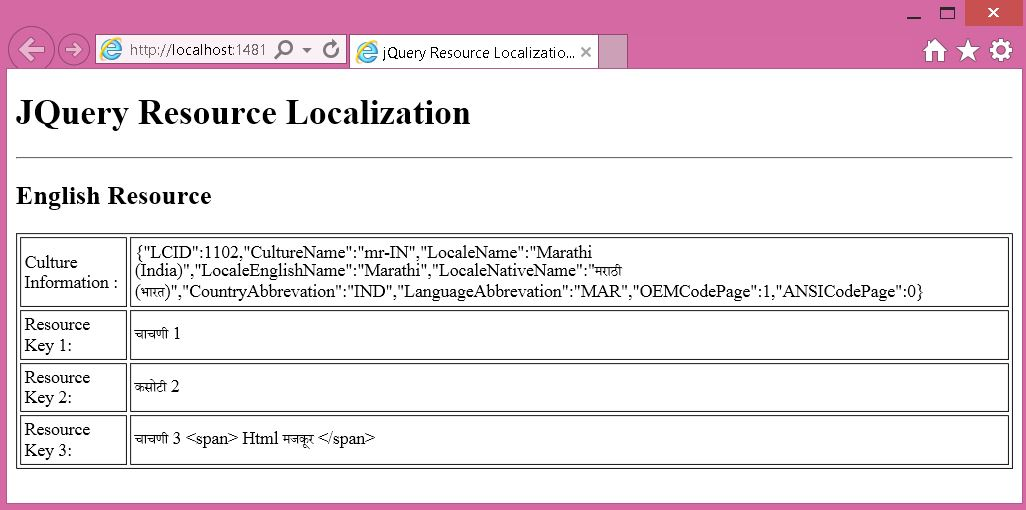
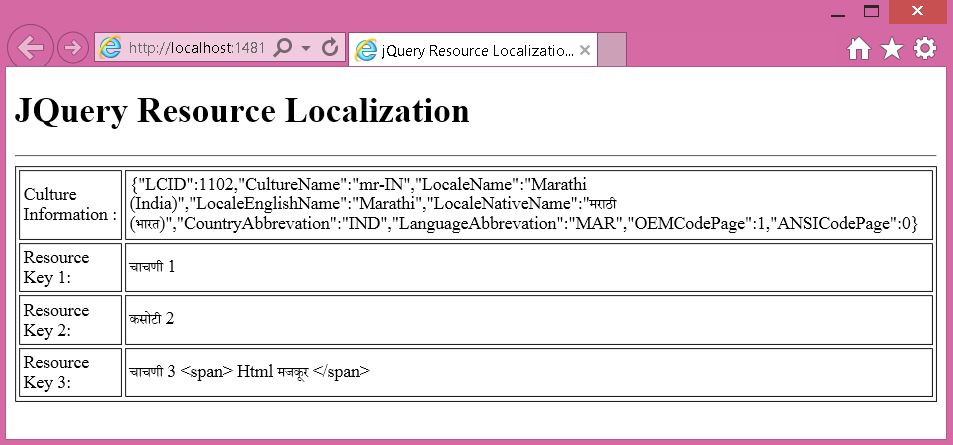
Added Nuget Package and documentation screens

Changed region(s): [[0.0, 0.0, 1.0, 0.9933]]

diff --git a/NuGet/scripts/jquery-resource-localization.1.0.0.0.js b/NuGet/scripts/jquery-resource-localization.1.0.0.0.js
@@ -1,0 +1,156 @@
+/***********************************************************************
+Author  :   Pritam Baldota
+Web Url :   http://www.pritambaldota.com
+
+The MIT License (MIT)
+
+Copyright (c) 2015 pritambaldota
+
+Permission is hereby granted, free of charge, to any person obtaining a copy
+of this software and associated documentation files (the "Software"), to deal
+in the Software without restriction, including without limitation the rights
+to use, copy, modify, merge, publish, distribute, sublicense, and/or sell
+copies of the Software, and to permit persons to whom the Software is
+furnished to do so, subject to the following conditions:
+
+The above copyright notice and this permission notice shall be included in all
+copies or substantial portions of the Software.
+
+THE SOFTWARE IS PROVIDED "AS IS", WITHOUT WARRANTY OF ANY KIND, EXPRESS OR
+IMPLIED, INCLUDING BUT NOT LIMITED TO THE WARRANTIES OF MERCHANTABILITY,
+FITNESS FOR A PARTICULAR PURPOSE AND NONINFRINGEMENT. IN NO EVENT SHALL THE
+AUTHORS OR COPYRIGHT HOLDERS BE LIABLE FOR ANY CLAIM, DAMAGES OR OTHER
+LIABILITY, WHETHER IN AN ACTION OF CONTRACT, TORT OR OTHERWISE, ARISING FROM,
+OUT OF OR IN CONNECTION WITH THE SOFTWARE OR THE USE OR OTHER DEALINGS IN THE
+SOFTWARE.
+
+***********************************************************************/
+
+(function ($) {
+    //var resxExtension = "txt";
+    window.jqueryLocalization = {
+        Author: "Pritam Baldota",
+        Version: "1.0.0.0",
+        Resources: {},
+        CurrentCulture: {}, // Fill the Culture Information. It depends upon another plugin https://github.com/pritambaldota/Jquery-Culture-Info 
+        Initialize: function (options) {
+            // A comma separates the different values
+            //var defaults = {};
+            // var options = $.extend(defaults, options);
+            var optionsinternal = {
+                resourceName: options.resourceName || "", // Name of Resource File without local and extension for e.g. myProjectresource.1033.txt is file so your app name will be myProjectresource
+                callback: options.callback, // Callback once all resource has been loaded, so user can use after this
+                errorCallback: options.errorCallback,
+                culture: options.culture, // language en-US to load resource for this culture. If this parameter is provided then lcid is ignored. Either of one will be accepted.
+                lcid: options.lcid, // lcid for e.g. 1033 to load resource for this locale.
+                scriptRoot: options.scriptRoot || "Scripts/Global_Resources", // Resoruce files relative folder location. If not provided default will be used
+                resxExtension: options.resxExtension || "txt", // Type of resources to create default is text file based, it can be either JS or TXT
+                cache: options.cache || true, // Default cache is true
+            };
+
+            var jqL = this;
+            //Cache Object if resources already loaded then cache is true then return the same result
+            if (optionsinternal.cache && this.Resources !== undefined && this.Resources.__Exists) {
+                // Do nothign as Resource is already having values
+                console.log("Resource availabe in Cache.");
+                return;
+            }
+
+            if (optionsinternal.resourceName === undefined) {
+                console.log("No Resource File Name provided.");
+                return;
+            }
+
+            if (typeof $.GetCultureInfoByCultureName === 'function' && typeof $.getCultureInfoByLCID === 'function') {
+                if (optionsinternal.culture !== undefined) {
+                    this.CurrentCulture = $.GetCultureInfoByCultureName(optionsinternal.culture);
+                }
+                else if (optionsinternal.lcid !== undefined) {
+                    this.CurrentCulture = $.getCultureInfoByLCID(optionsinternal.lcid);
+                }
+                else {
+                    // Throw exception
+                    options.errorCallback({ "message": "Please provide either culture or lcid" });
+                    return;
+                }
+
+                if (this.CurrentCulture == undefined) {
+                    console.log("No culture found for given input. Loading resources from default file");
+                    // Take Default fallback Resource file
+                    optionsinternal.resxExtension = "." + optionsinternal.resxExtension;
+                }
+                else {
+                    optionsinternal.resxExtension = "." + this.CurrentCulture.CultureName + "." + optionsinternal.resxExtension;
+                }
+            }
+            else {
+                // Take Default fallback Resource file
+                optionsinternal.resxExtension = "." + optionsinternal.resxExtension;
+            }
+
+            //Inject scripts
+            var filename = optionsinternal.scriptRoot + "/" + optionsinternal.resourceName + optionsinternal.resxExtension;
+            console.log("Resource identified - " + filename);
+            //Clear Resource before processing
+            jqL.Resources = {};
+
+            if (optionsinternal.resxExtension.toLowerCase() === "js") {
+                this.LoadDynamicJSCss(filename, "js", function () {
+                    //Set Resource Filled flag
+                    jqL.Resources["__Exists"] = "1";
+                    console.log("Resource ready for use.")
+                    optionsinternal.callback();
+                });
+            }
+            else {
+                // Load Non JS Resource file 
+                $.get(filename, function (data) {
+                    $.each(data.split("\r\n"), function (i, item) {
+                        item = $.trim(item);
+                        var pos = item.indexOf(":");
+                        if (pos !== -1 && item.length > pos) { // Valid resource item with  key value pair
+                            var itemRow = item.substring(0, pos);
+                            var itemCell = item.substring(pos + 1);
+                            jqL.Resources[$.trim(itemRow)] = $.trim(itemCell);
+                        }
+                    });
+
+                    //Set Resource Filled flag
+                    jqL.Resources["__Exists"] = "1";
+                    console.log("Resource ready for use.")
+                    optionsinternal.callback();
+                });
+            }
+        },
+        LoadDynamicJSCss: function (url, type, callback) {
+            var script = {};
+            if (type == "js") {
+                script = document.createElement("script");
+                script.type = "text/javascript";
+                script.src = url;
+            }
+            else if (type == "css") {
+                script = document.createElement("link");
+                script.type = "text/css";
+                script.rel = "stylesheet";
+                script.href = url;
+            }
+
+            if (script.readyState) {  //IE
+                script.onreadystatechange = function () {
+                    if (script.readyState == "loaded" ||
+                            script.readyState == "complete") {
+                        script.onreadystatechange = null;
+                        callback();
+                    }
+                };
+            } else {  //Others
+                script.onload = function () {
+                    callback();
+                };
+            }
+
+            document.body.appendChild(script);
+        }
+    };
+})(jQuery);

diff --git a/NuGet/demo-localization.html b/NuGet/demo-localization.html
@@ -1,0 +1,92 @@
+<!DOCTYPE html>
+<html xmlns="http://www.w3.org/1999/xhtml">
+<head>
+    <title>jQuery Resource Localization Plugin</title>
+    <!-- Dependent Libraries-->
+    <script src="Scripts/jquery-1.10.0.min.js"></script>
+    <script src="Scripts/jquery-cultureinfo-1.0.0.0.min.js"></script>
+
+    <!-- Plugin Reference-->
+    <script src="Scripts/jquery-resource-localization.1.0.0.0.min.js"></script>
+
+    <!-- Initialize Plugin -->
+    <script type="text/javascript">
+        $(document).ready(function () {
+            jqueryLocalization.Initialize({
+                resourceName: "myResourceFile", // Resource File name
+                callback: resourceLoaded, // Success call back handler. After this call back you can use resources.
+                errorCallback: errorOnResourceLoad, // Error call back handler
+                scriptRoot: "Scripts/Global_Resources", // Relative Location for Resource files
+                resxExtension: 'txt', // Default Resource file type will be txt if not provided. Valid types will either js or txt.
+                culture: "mr-IN", // Provide either culture or lcid. culture will have higher priority, if provided lcid will be ignored.
+                //lcid: 1033,
+                //cache: true,  // Default will be true if not provided. If Initialize called multiple times, it will return result from cache.
+            });
+        });
+
+        // Success handler
+        function resourceLoaded() {
+            // Start accessing resource
+            //Show all culture information. 
+            $("#cultureInfo").text(JSON.stringify(jqueryLocalization.CurrentCulture));
+
+            // Show Resource Values 
+            // Usage like Array : provide key name in brackets
+            $("#resValue1").text(jqueryLocalization.Resources["ResKey1"]);
+
+            // Usage like Object : provide key name as property
+            $("#resValue2").text(jqueryLocalization.Resources.ResKey2);
+
+            // Usage like Object : provide key name as property
+            $("#resValue3").text(jqueryLocalization.Resources.ResKey3);
+        }
+
+        //error callback
+        function errorOnResourceLoad(error) {
+            if (error !== undefined) {
+                console.log(error.message);
+            }
+        }
+    </script>
+
+</head>
+<body>
+    <h1>JQuery Resource Localization</h1>
+    <hr />
+
+    <table border="1" cellpadding="3" cellspacing="3">
+        <tr>
+            <td>
+                Culture Information :
+            </td>
+            <td>
+                <div id="cultureInfo"></div>
+            </td>
+        </tr>
+        <tr>
+            <td>
+                Resource Key 1:
+            </td>
+            <td>
+                <div id="resValue1"></div>
+            </td>
+        </tr>
+        <tr>
+            <td>
+                Resource Key 2:
+            </td>
+            <td>
+                <div id="resValue2"></div>
+            </td>
+        </tr>
+        <tr>
+            <td>
+                Resource Key 3:
+            </td>
+            <td>
+                <div id="resValue3"></div>
+            </td>
+        </tr>
+    </table>
+</body>
+</html>

diff --git a/NuGet/scripts/jquery-resource-localization.1.0.0.0.min.js b/NuGet/scripts/jquery-resource-localization.1.0.0.0.min.js
@@ -1,0 +1,2 @@
+// Author  :   Pritam Baldota , Web Url :   http://www.pritambaldota.com , The MIT License (MIT) , Copyright (c) 2015 pritambaldota
+!function (e) { window.jqueryLocalization = { Author: "Pritam Baldota", Version: "1.0.0.0", Resources: {}, CurrentCulture: {}, Initialize: function (r) { var t = { resourceName: r.resourceName || "", callback: r.callback, errorCallback: r.errorCallback, culture: r.culture, lcid: r.lcid, scriptRoot: r.scriptRoot || "Scripts/Global_Resources", resxExtension: r.resxExtension || "txt", cache: r.cache || !0 }, o = this; if (t.cache && void 0 !== this.Resources && this.Resources.__Exists) return void console.log("Resource availabe in Cache."); if (void 0 === t.resourceName) return void console.log("No Resource File Name provided."); if ("function" == typeof e.GetCultureInfoByCultureName && "function" == typeof e.getCultureInfoByLCID) { if (void 0 !== t.culture) this.CurrentCulture = e.GetCultureInfoByCultureName(t.culture); else { if (void 0 === t.lcid) return void r.errorCallback({ message: "Please provide either culture or lcid" }); this.CurrentCulture = e.getCultureInfoByLCID(t.lcid) } void 0 == this.CurrentCulture ? (console.log("No culture found for given input. Loading resources from default file"), t.resxExtension = "." + t.resxExtension) : t.resxExtension = "." + this.CurrentCulture.CultureName + "." + t.resxExtension } else t.resxExtension = "." + t.resxExtension; var s = t.scriptRoot + "/" + t.resourceName + t.resxExtension; console.log("Resource identified - " + s), o.Resources = {}, "js" === t.resxExtension.toLowerCase() ? this.LoadDynamicJSCss(s, "js", function () { o.Resources.__Exists = "1", console.log("Resource ready for use."), t.callback() }) : e.get(s, function (r) { e.each(r.split("\r\n"), function (r, t) { t = e.trim(t); var s = t.indexOf(":"); if (-1 !== s && t.length > s) { var i = t.substring(0, s), n = t.substring(s + 1); o.Resources[e.trim(i)] = e.trim(n) } }), o.Resources.__Exists = "1", console.log("Resource ready for use."), t.callback() }) }, LoadDynamicJSCss: function (e, r, t) { var o = {}; "js" == r ? (o = document.createElement("script"), o.type = "text/javascript", o.src = e) : "css" == r && (o = document.createElement("link"), o.type = "text/css", o.rel = "stylesheet", o.href = e), o.readyState ? o.onreadystatechange = function () { ("loaded" == o.readyState || "complete" == o.readyState) && (o.onreadystatechange = null, t()) } : o.onload = function () { t() }, document.body.appendChild(o) } } }(jQuery);

diff --git a/NuGet/scripts/Global_Resources/myResourceFile.mr-IN.js b/NuGet/scripts/Global_Resources/myResourceFile.mr-IN.js
@@ -1,0 +1,13 @@
+(function (jqL) {
+    if (jqL == undefined) {
+        console.log("plugin not loaded. Include plugin reference to the web page.")
+        return;
+    }
+
+    // Define all your resource entries as Key value pair. Don't change any other code.
+    jqL.Resources = {
+        ResKey1: "चाचणी 1",
+        ResKey2: "चाचणी 2",
+        ResKey3: "चाचणी 3 <span> Html मजकूर </span>",
+    };
+})(jqueryLocalization); // name for the js

diff --git a/NuGet/scripts/Global_Resources/myResourceFile.en-US.js b/NuGet/scripts/Global_Resources/myResourceFile.en-US.js
@@ -1,0 +1,13 @@
+(function (jqL) {
+    if (jqL == undefined) {
+        console.log("plugin not loaded. Include plugin reference to the web page.")
+        return;
+    }
+
+    // Define all your resource entries as Key value pair. Don't change any other code.
+    jqL.Resources = {
+        ResKey1: "JS Resource 1",
+        ResKey2: "JS Resource 2",
+        ResKey3: "JS Resource 3 <span>Html Text</span>",
+    };
+})(jqueryLocalization); // name for the js

diff --git a/NuGet/scripts/Global_Resources/myResourceFile.js b/NuGet/scripts/Global_Resources/myResourceFile.js
@@ -1,0 +1,13 @@
+(function (jqL) {
+    if (jqL == undefined) {
+        console.log("plugin not loaded. Include plugin reference to the web page.")
+        return;
+    }
+
+    // Define all your resource entries as Key value pair. Don't change any other code.
+    jqL.Resources = {
+        ResKey1: "JS Resource 1",
+        ResKey2: "JS Resource 2",
+        ResKey3: "JS Resource 3 <span>Html Text</span>",
+    };
+})(jqueryLocalization); // name for the js
